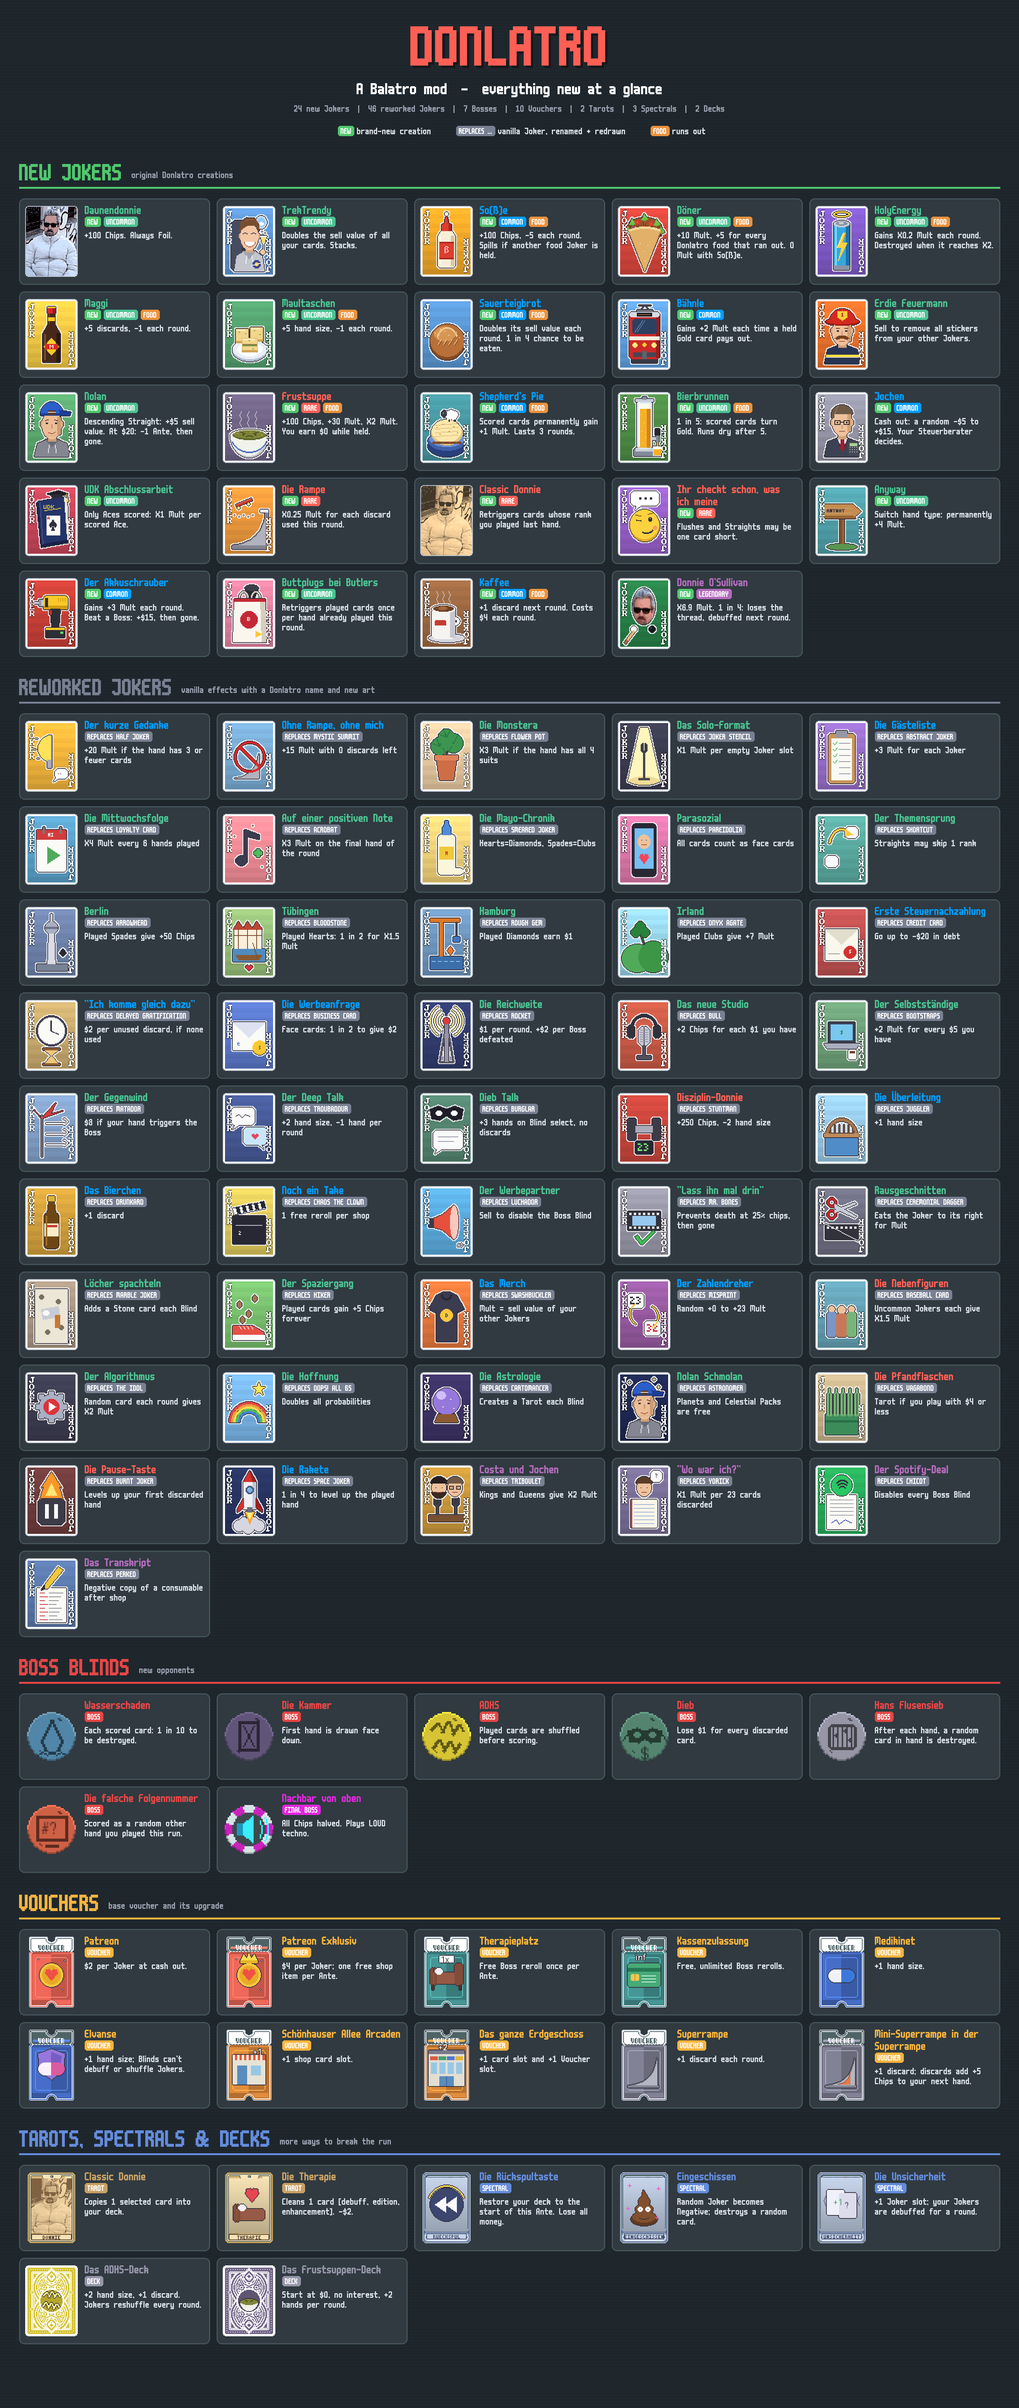
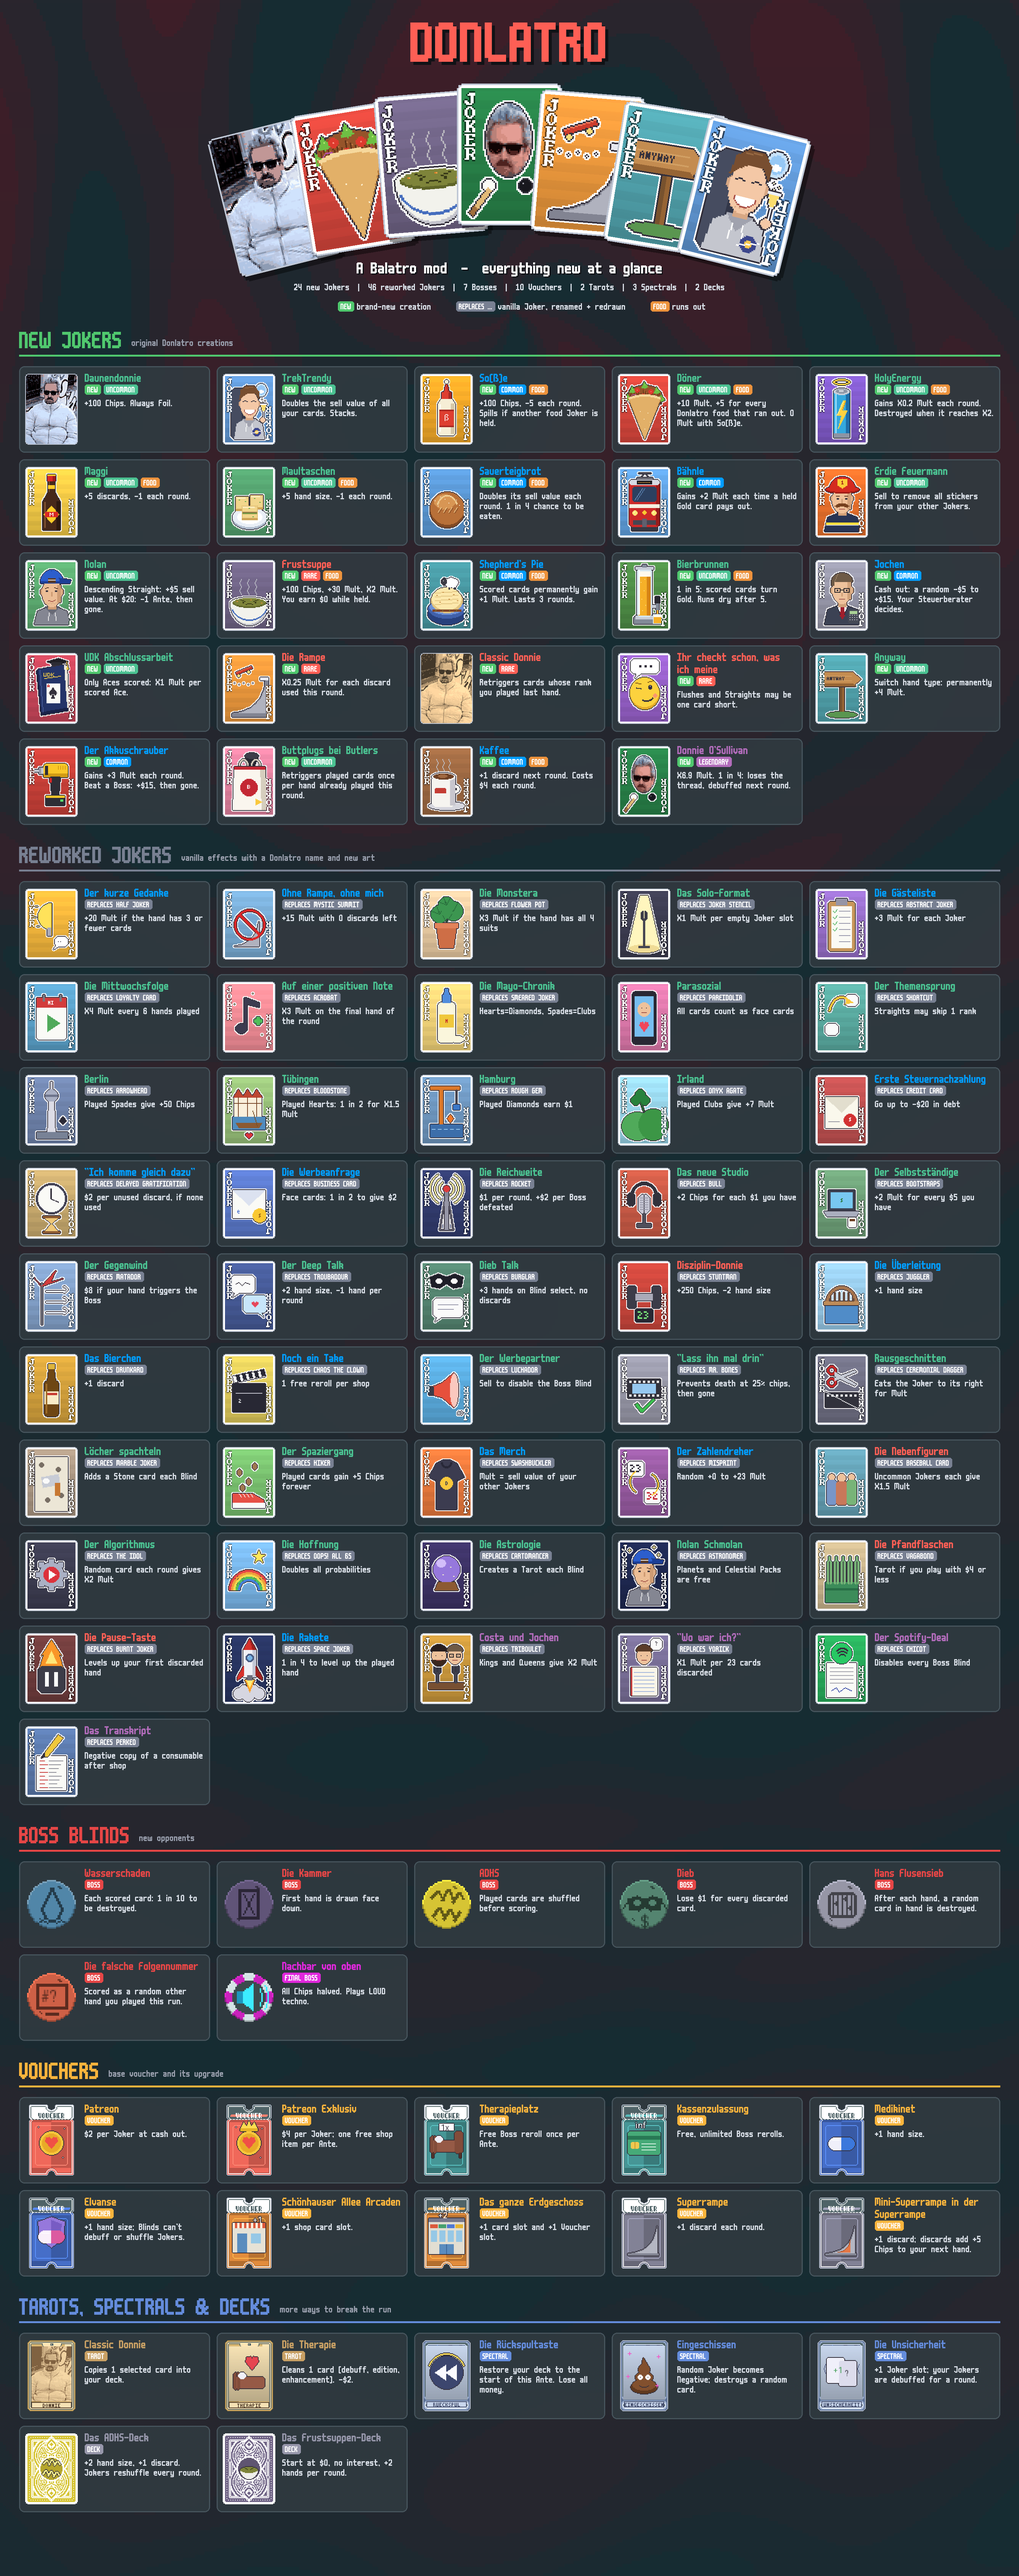
Redesign promo poster: swirl background, card fan header, translucent tiles

diff --git a/tools/promo.py b/tools/promo.py
@@ -197,7 +197,9 @@ def badge(d, x, y, text, colour):
 
 def tile(page, x, y, img, scale, name, rarity, badges, effect):
     d = ImageDraw.Draw(page)
-    d.rounded_rectangle((x, y, x + TILE_W, y + TILE_H), 14, fill=PANEL, outline=PANEL_EDGE, width=3)
+    panel = Image.new('RGBA', (TILE_W + 1, TILE_H + 1), (0, 0, 0, 0))
+    ImageDraw.Draw(panel).rounded_rectangle((0, 0, TILE_W, TILE_H), 14, fill=PANEL + (225,), outline=PANEL_EDGE + (255,), width=3)
+    page.alpha_composite(panel, (x, y))
     big = img.resize((img.width * scale, img.height * scale), Image.NEAREST)
     page.alpha_composite(big, (x + 14 + (142 - big.width) // 2, y + (TILE_H - big.height) // 2))
     tx, tw = x + 172, TILE_W - 186
@@ -212,6 +214,39 @@ def tile(page, x, y, img, scale, name, rarity, badges, effect):
     for line in wrap(d, effect, F_BODY, tw):
         d.text((tx, ty), line, font=F_BODY, fill=LIGHT)
         ty += 26
+
+
+def swirl_background(w, h):
+    """Balatro-style swirly backdrop, rendered at 1/8 size and upscaled for chunky pixels."""
+    import numpy as np
+    sw, sh = w // 8, h // 8
+    yy, xx = np.mgrid[0:sh, 0:sw].astype(float)
+    cx, cy = sw * 0.5, sh * 0.12
+    r = np.hypot(xx - cx, yy - cy)
+    a = np.arctan2(yy - cy, xx - cx)
+    v = np.sin(r * 0.09 - a * 3 + np.sin(yy * 0.02) * 2) + 0.6 * np.sin(xx * 0.05 + yy * 0.03)
+    t = np.floor((v - v.min()) / (v.max() - v.min()) * 5) / 4               # 5 colour bands
+    dark, warm = np.array([22, 44, 50]), np.array([62, 30, 40])
+    fade = np.clip(yy / sh * 1.6, 0, 1)[..., None]                           # calmer further down
+    rgb = dark + (warm - dark) * t[..., None] * (1 - 0.6 * fade)
+    img = Image.fromarray(rgb.astype('uint8'), 'RGB').resize((w, h), Image.NEAREST)
+    return img.convert('RGBA')
+
+
+def card_fan(page, cards, cx, top, scale=4, spread=14):
+    n = len(cards)
+    for i, card in enumerate(cards):
+        k = i - (n - 1) / 2
+        big = card.resize((card.width * scale, card.height * scale), Image.NEAREST)
+        shadow = Image.new('RGBA', big.size, (0, 0, 0, 0))
+        shadow.putalpha(big.getchannel('A').point(lambda a: 110 if a else 0))
+        angle = -k * spread / max(1, (n - 1) / 2) * 1.0
+        rot = big.rotate(angle, resample=Image.NEAREST, expand=True)
+        rsh = shadow.rotate(angle, resample=Image.NEAREST, expand=True)
+        x = int(cx + k * 205 - rot.width / 2)
+        y = int(top + abs(k) ** 1.6 * 14)
+        page.alpha_composite(rsh, (x + 10, y + 12))
+        page.alpha_composite(rot, (x, y))
 
 
 def section(page, y, title, subtitle, colour):
@@ -235,33 +270,34 @@ def rows_height(n):
 
 
 if __name__ == '__main__':
-    header = 420
+    header = 860
     total = (header + rows_height(len(NEW_JOKERS)) + rows_height(len(REPLACEMENTS)) + rows_height(len(BOSSES))
              + rows_height(len(VOUCHERS)) + rows_height(len(CONSUMABLES)) + 120)
-    page = Image.new('RGBA', (PAGE_W, total), BG + (255,))
+    page = swirl_background(PAGE_W, total)
     d = ImageDraw.Draw(page)
-    for yy in range(0, total, 8):                                            # subtle stripes
-        d.line((0, yy, PAGE_W, yy), fill=(34, 43, 50))
 
-    # title
     title = 'DONLATRO'
     tw = d.textlength(title, font=F_TITLE)
-    d.text(((PAGE_W - tw) / 2 + 6, 46), title, font=F_TITLE, fill=(20, 24, 28))
-    d.text(((PAGE_W - tw) / 2, 40), title, font=F_TITLE, fill=(254, 95, 85))
+    for off, col in ((8, (16, 18, 22)), (0, (254, 95, 85))):
+        d.text(((PAGE_W - tw) / 2 + off, 30 + off), title, font=F_TITLE, fill=col)
+    fan = [J(0, 0), J(3, 0), J(1, 1), J(4, 2, (5, 2)), J(6, 1), J(9, 1), J(1, 0)]
+    card_fan(page, fan, PAGE_W / 2, 215)
+    d = ImageDraw.Draw(page)
     sub = 'A Balatro mod  -  everything new at a glance'
-    d.text(((PAGE_W - d.textlength(sub, font=F_SUB)) / 2, 210), sub, font=F_SUB, fill=WHITE)
+    d.text(((PAGE_W - d.textlength(sub, font=F_SUB)) / 2 + 3, 683), sub, font=F_SUB, fill=(16, 18, 22))
+    d.text(((PAGE_W - d.textlength(sub, font=F_SUB)) / 2, 680), sub, font=F_SUB, fill=WHITE)
     stats = (f'{len(NEW_JOKERS)} new Jokers  |  {len(REPLACEMENTS)} reworked Jokers  |  {len(BOSSES)} Bosses  |  '
              f'{len(VOUCHERS)} Vouchers  |  2 Tarots  |  3 Spectrals  |  2 Decks')
-    d.text(((PAGE_W - d.textlength(stats, font=F_BODY)) / 2, 272), stats, font=F_BODY, fill=GREY)
+    d.text(((PAGE_W - d.textlength(stats, font=F_BODY)) / 2, 740), stats, font=F_BODY, fill=LIGHT)
     lx = (PAGE_W - 900) / 2                                                  # legend
-    lx = badge(d, lx, 330, 'NEW', NEW_C)
-    d.text((lx, 331), 'brand-new creation', font=F_BODY, fill=LIGHT)
+    lx = badge(d, lx, 790, 'NEW', NEW_C)
+    d.text((lx, 791), 'brand-new creation', font=F_BODY, fill=LIGHT)
     lx += 260
-    lx = badge(d, lx, 330, 'REPLACES ...', REPL_C)
-    d.text((lx, 331), 'vanilla Joker, renamed + redrawn', font=F_BODY, fill=LIGHT)
+    lx = badge(d, lx, 790, 'REPLACES ...', REPL_C)
+    d.text((lx, 791), 'vanilla Joker, renamed + redrawn', font=F_BODY, fill=LIGHT)
     lx += 400
-    lx = badge(d, lx, 330, 'FOOD', FOOD_C)
-    d.text((lx, 331), 'runs out', font=F_BODY, fill=LIGHT)
+    lx = badge(d, lx, 790, 'FOOD', FOOD_C)
+    d.text((lx, 791), 'runs out', font=F_BODY, fill=LIGHT)
     y = header
 
     y = section(page, y, 'NEW JOKERS', 'original Donlatro creations', NEW_C)
